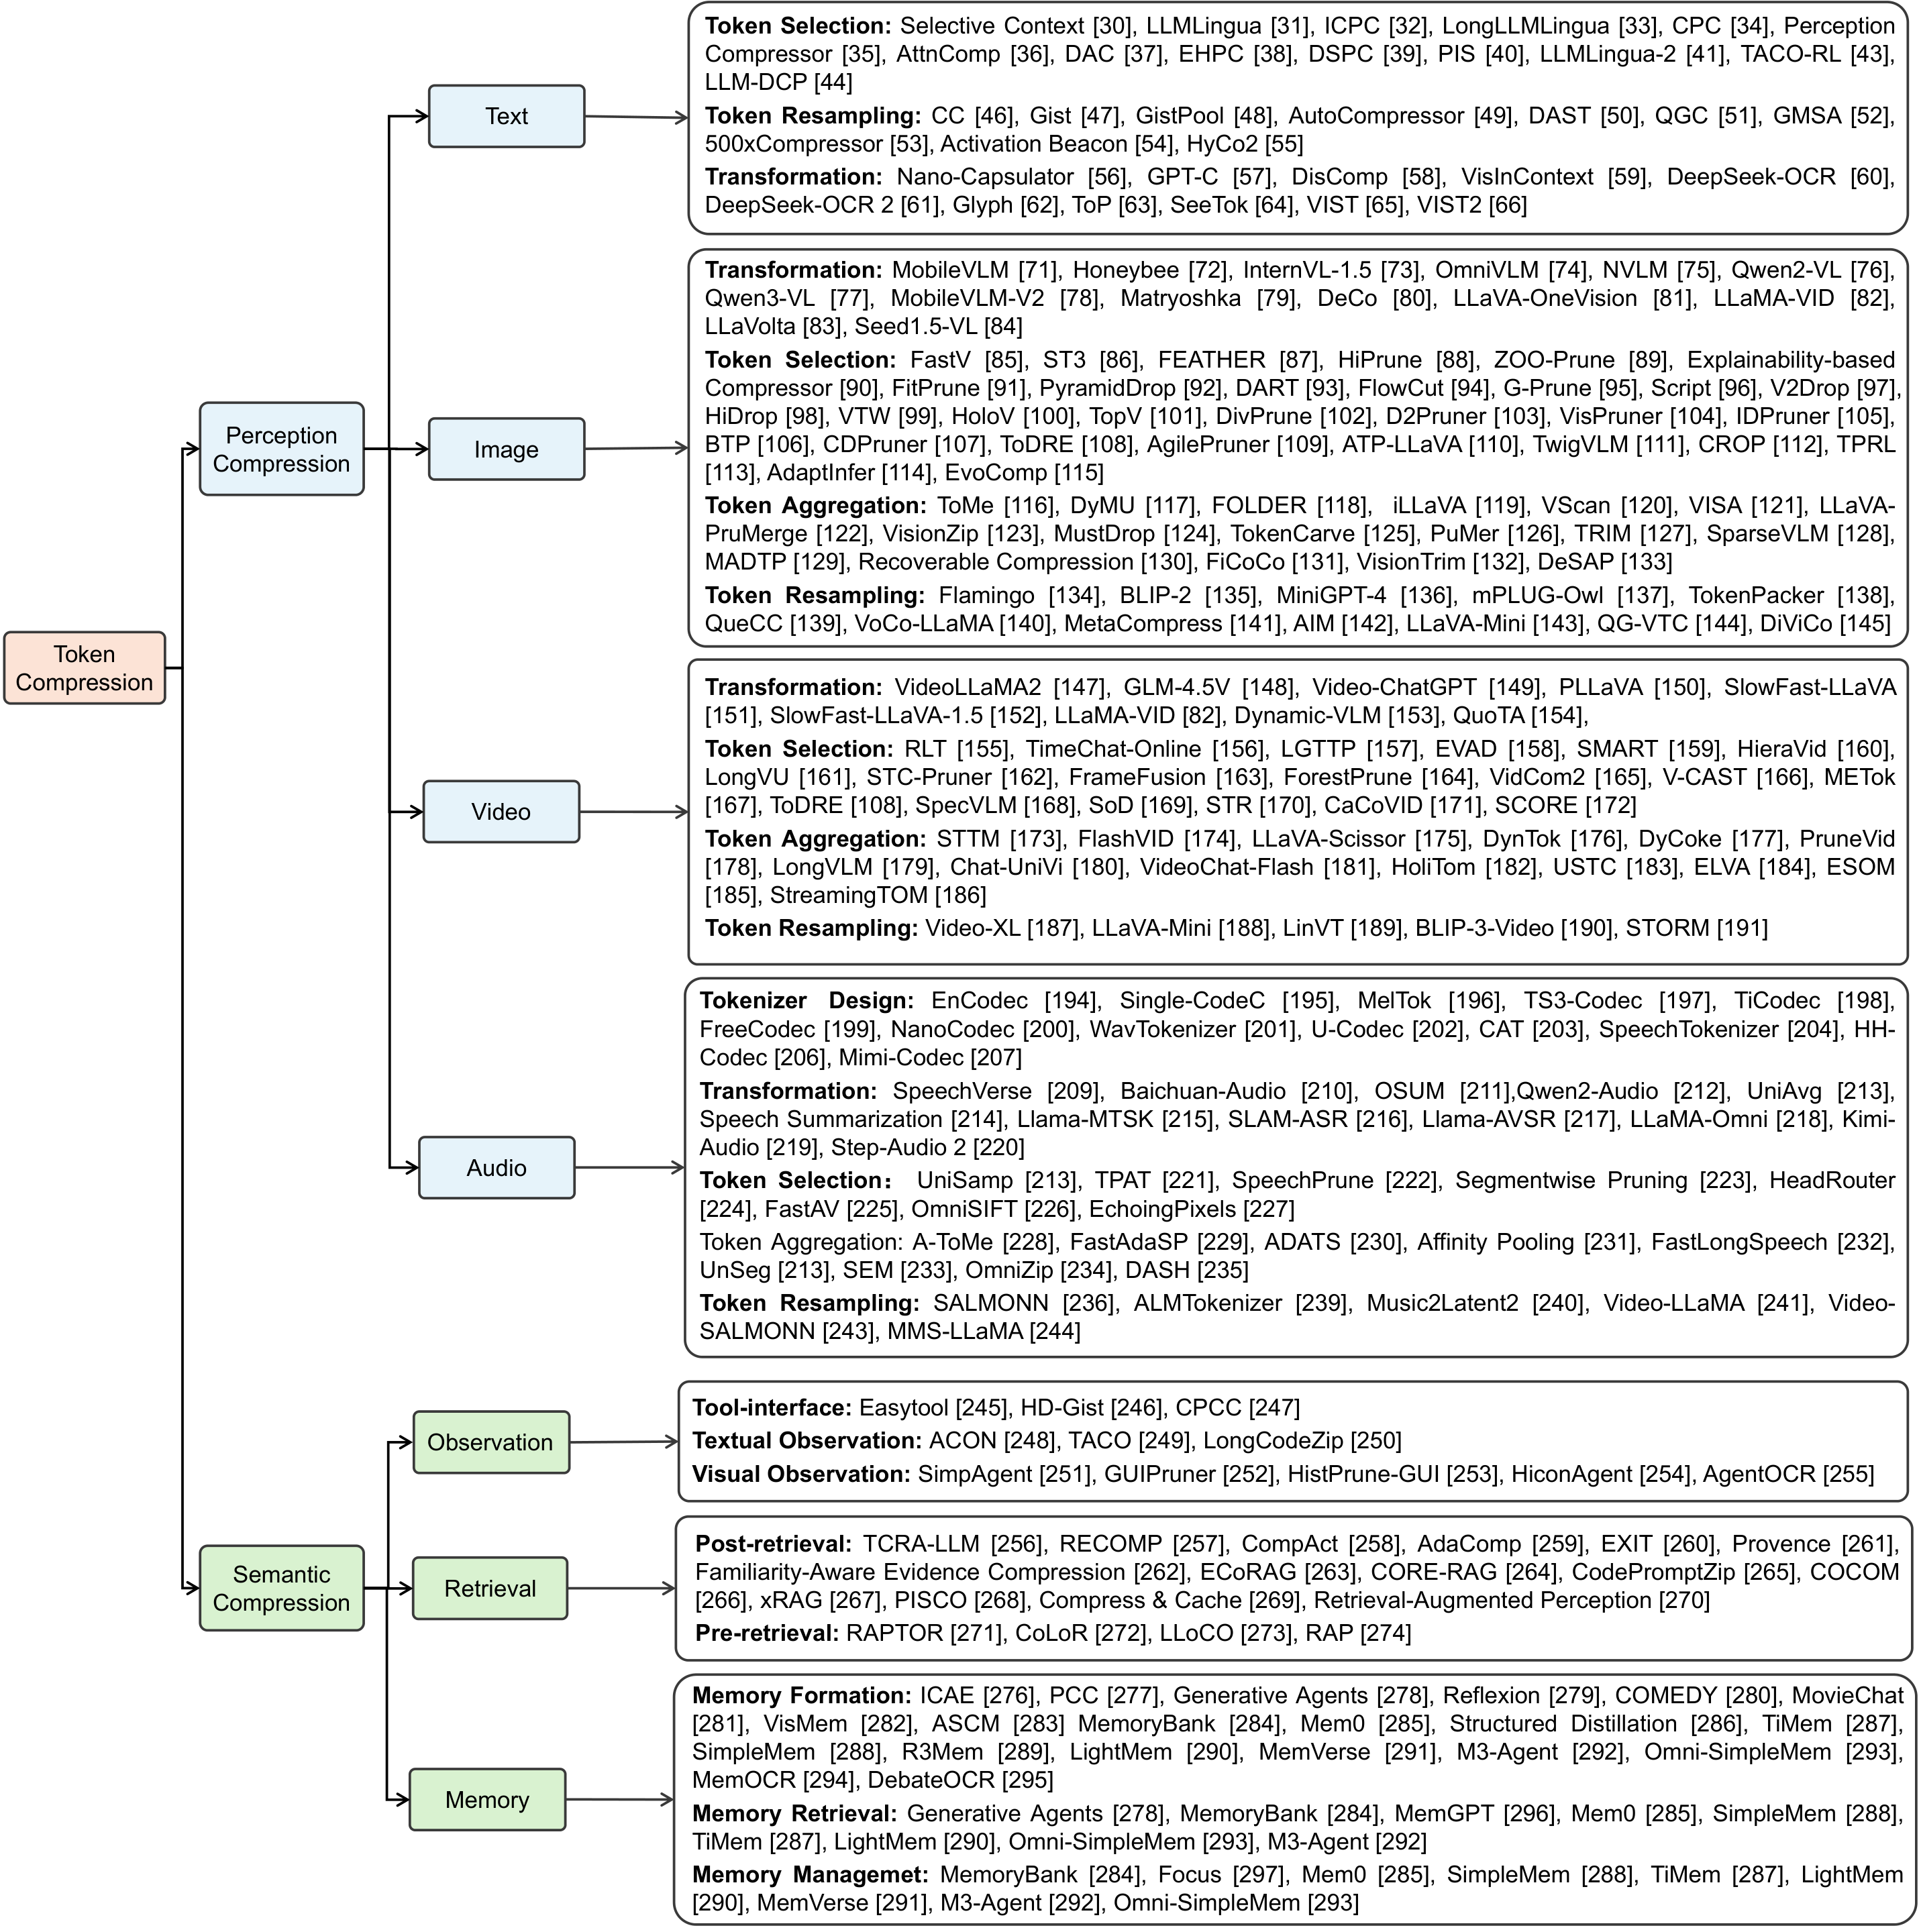
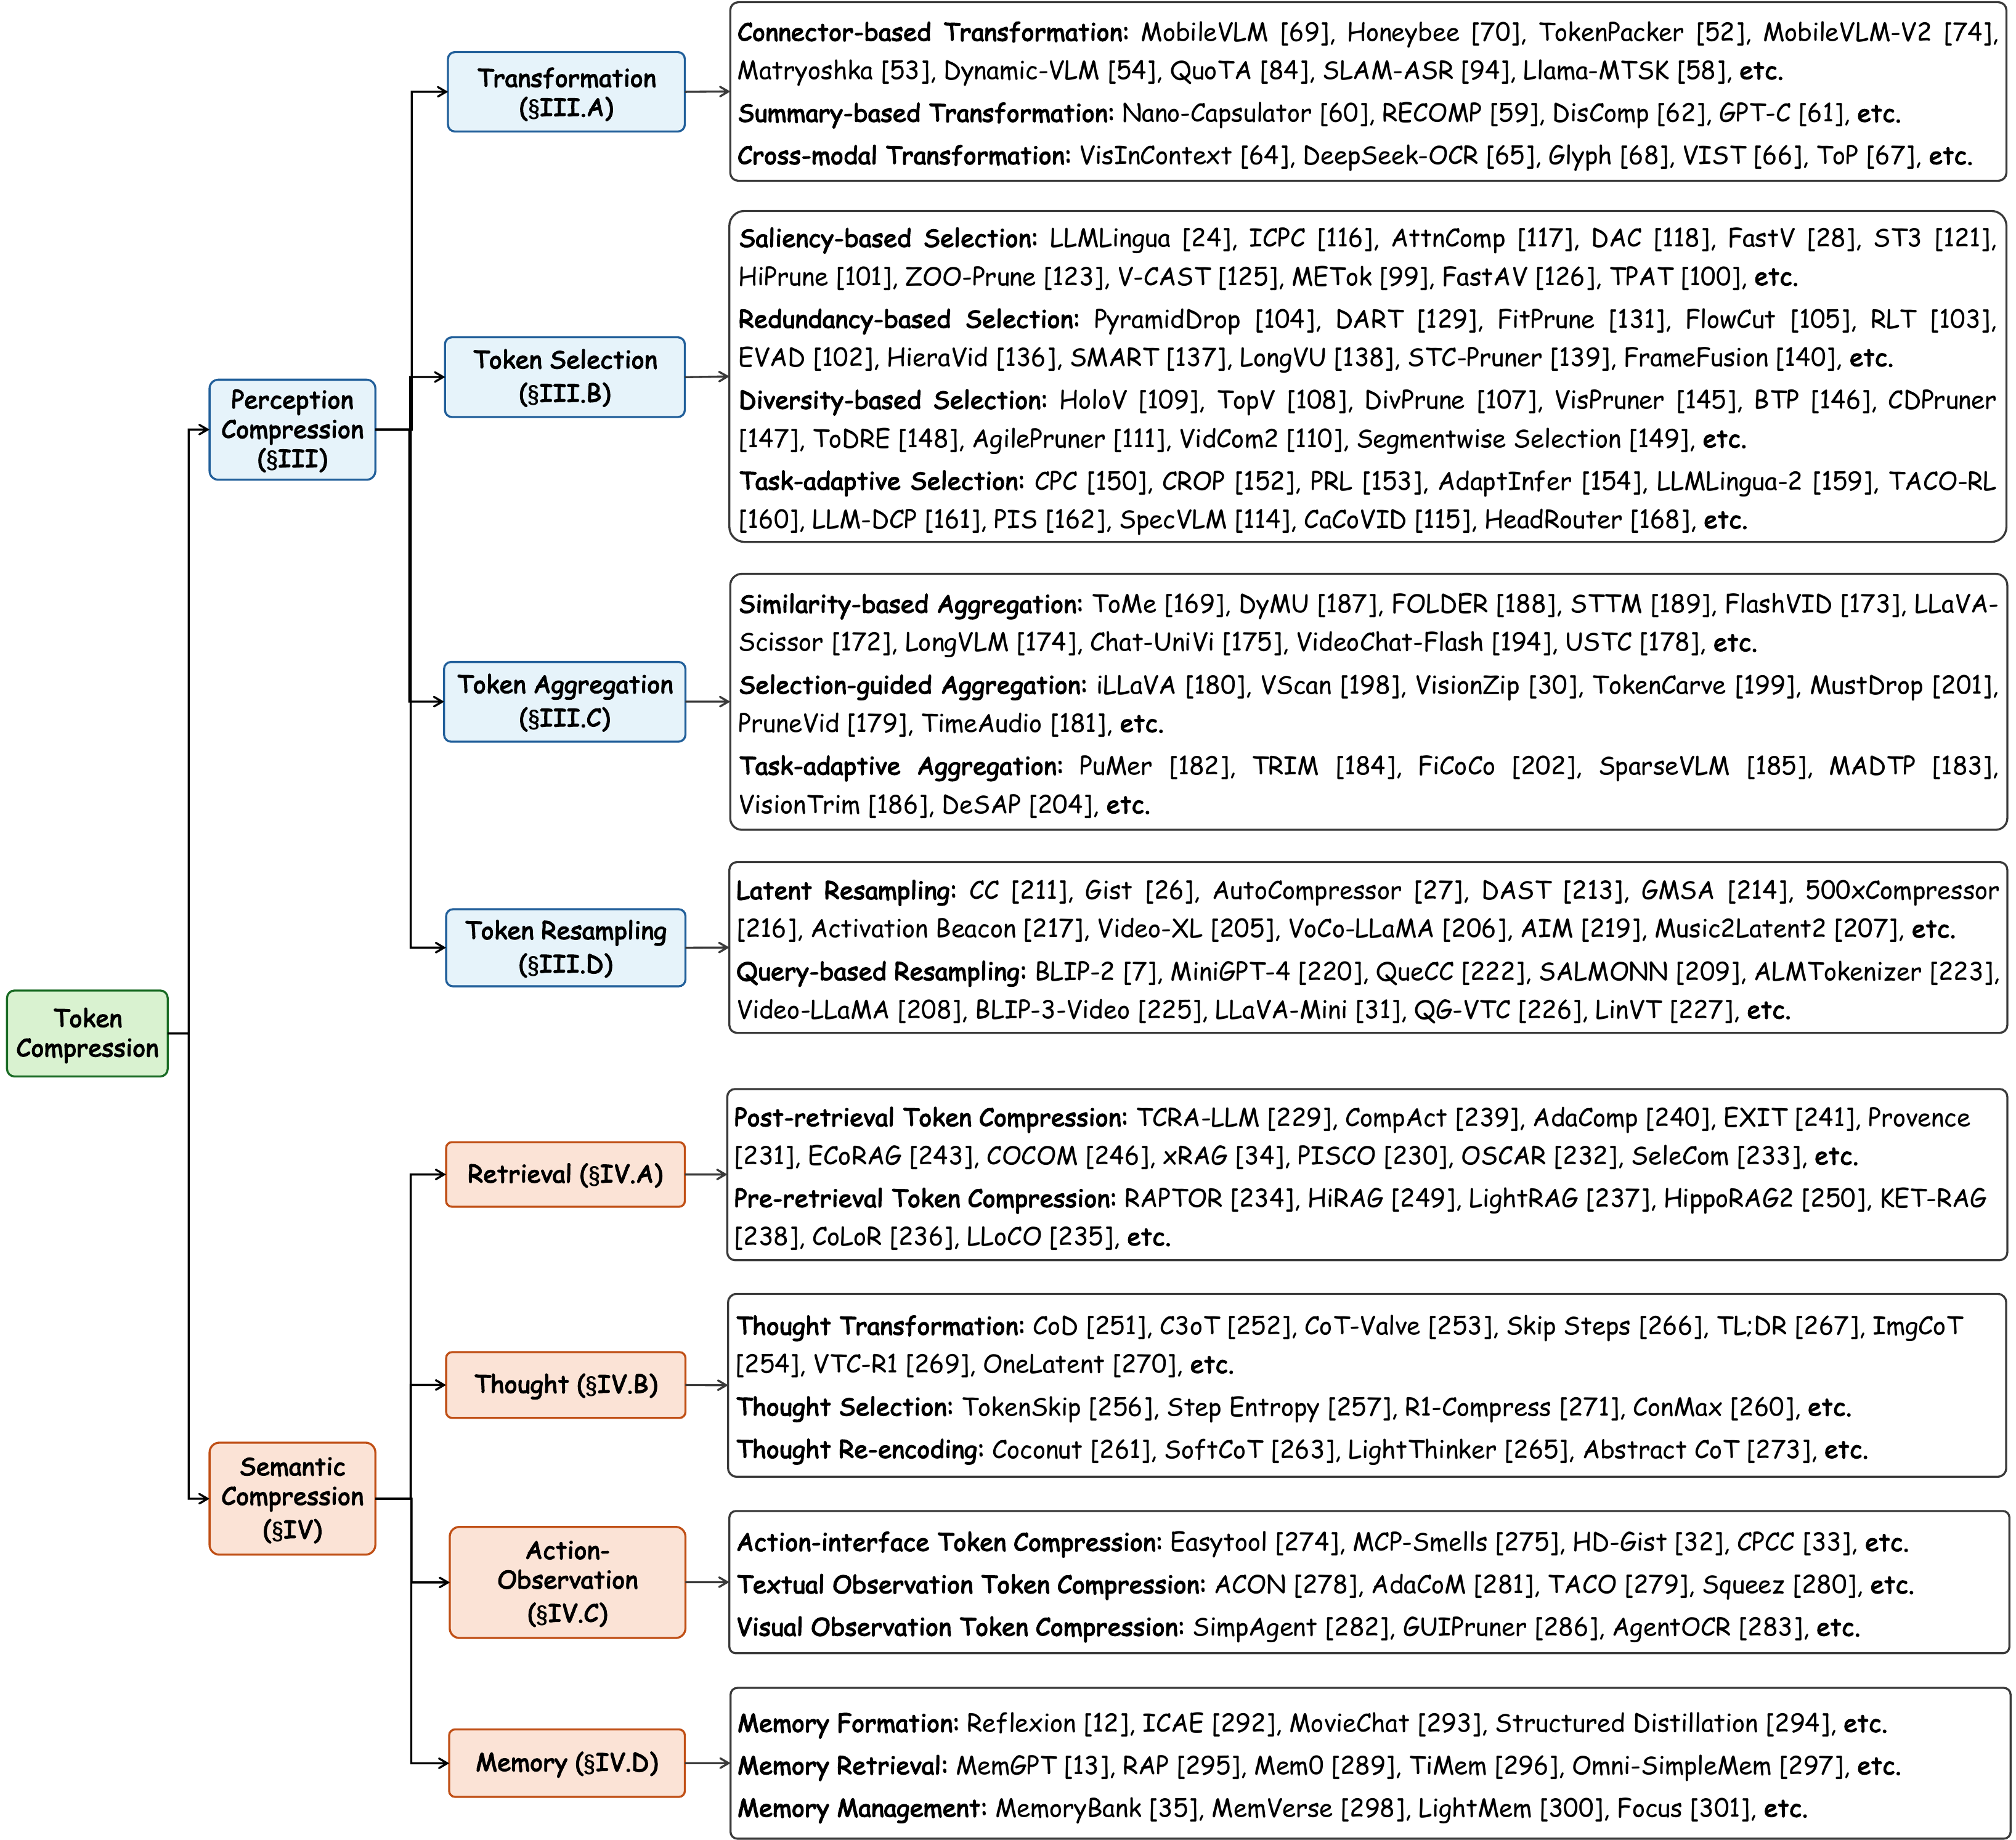
Update survey tables and figures from revised manuscript

Changed region(s): [[0.0934, 0.0, 1.0, 1.0], [0.0, 0.5312, 0.0934, 0.5938], [0.0, 0.3125, 0.0934, 0.375]]

diff --git a/README.md b/README.md
@@ -1,18 +1,18 @@
 # Awesome Token Compression in the Era of AI Agents: From Perception to Semantics
 
 [![Awesome](https://awesome.re/badge.svg)](https://awesome.re)
-![Papers](https://img.shields.io/badge/Papers-249-blue?style=flat-square)
+![Papers](https://img.shields.io/badge/Papers-286-blue?style=flat-square)
 ![PRs Welcome](https://img.shields.io/badge/PRs-welcome-brightgreen?style=flat-square)
 
 > A curated, taxonomy-organized paper list on **token compression** —
 > from raw perceptual inputs (text · image · video · audio)
-> to accumulated workflow contexts (observations · retrieval · memory).
+> to accumulated workflow contexts (retrieval · thought · action-observation · memory).
 >
 > Accompanying the survey paper:
-> **"A Survey of Token Compression in the Era of AI Agents: From Perception to Semantics"**
-> *Fengxi Zhang · Zhengxue Cheng · Li Song*
+> **"Token Compression in the AI Agent Lifecycle: A Comprehensive Survey from Perceptual Inputs to Semantic Contexts"**
+> *Fengxi Zhang · Zhengxue Cheng · Guo Lu · Li Song · Zhu Li · Zhiyong Chen · Meixia Tao · Wenjun Zhang*
 
-> **📢 Contributions Welcome** — submit a [pull request](https://github.com/xcjinggai/Awesome_Token_Compression_Papers/pulls)
+> **📢 Contributions Welcome** — submit a [pull request](https://github.com/XCJinggai/Awesome_Token_Compression_in_AI_Agents_Era/pulls)
 > to add papers, fix venue/GitHub info, or suggest improvements.
 
 ⭐ If you find this repo useful, please give us a star!
@@ -27,8 +27,9 @@
   - [🎬 Video](#-video-token-compression)
   - [🔊 Audio](#-audio-token-compression)
 - [Semantic Compression](#-semantic-compression)
-  - [👀 Observation](#-observation-token-compression)
+  - [🛠️ Action-Observation](#-action-observation-token-compression)
   - [🔍 Retrieval](#-retrieval-token-compression)
+  - [💭 Thought](#-thought-token-compression)
   - [🧩 Memory](#-memory-token-compression)
 - [Citation](#-citation)
 - [Star History](#-star-history)
@@ -42,7 +43,7 @@ Early task-specific Transformers processed task inputs as tokens — subwords in
 With the rise of LLMs, tokens were no longer limited to task inputs but became the basic units for organizing context and supporting reasoning.
 Multimodal LLMs (MLLMs) further extended the tokenized interface to perceptual signals,
 converting images, videos, and audio into tokens aligned with language representations.
-In AI agents, tokens now also represent **observations, retrieved evidence, and memory records**
+In AI agents, tokens now also represent **retrieved evidence, reasoning traces, action-observation histories, and memory records**
 accumulated across multi-step execution.
 
 **Token explosion has therefore become a context management challenge**, not merely a sequence-length problem.
@@ -52,6 +53,8 @@ Concretely, the problems manifest along three dimensions:
 - 🔺 **Inference cost** — longer active contexts mean higher FLOPs, memory bandwidth, and KV-cache pressure at every step.
 - 🔺 **Context window saturation** — as agents accumulate observations, retrieved passages, and memory records, the context window fills faster than task progress advances.
 - 🔺 **Attention noise** — irrelevant or redundant tokens compete for attention with task-critical signals, degrading model performance even when the window is not full (the *lost-in-the-middle* effect).
+
+![Token Explosion](figs/token_explosion.png)
 
 **Token compression** addresses all three: it preserves task-relevant information with fewer active tokens,
 reducing cost at the source rather than by changing model parameters or attention patterns.
@@ -68,7 +71,7 @@ dividing it into two top-level categories:
 | Category | Operates on | Source of Redundancy | Objective |
 |---|---|---|---|
 | 👁️ **Perception Compression** | Input-side perceptual tokens P (text, image, video, audio) | Intrinsic redundancy of raw inputs | Reduce perceptual token cost while preserving input information |
-| 🧠 **Semantic Compression** | Workflow context tokens C (observations, retrieval evidence, memory) | Redundancy induced by the workflow itself | Preserve decision-relevant information across multi-step execution |
+| 🧠 **Semantic Compression** | Workflow context tokens C (retrieval, thought, action-observation, memory) | Redundancy induced by the workflow itself | Preserve decision-relevant information across multi-step execution |
 
 ## 🏷️ Tag Legend
 
@@ -80,8 +83,10 @@ dividing it into two top-level categories:
 | ![Image](https://img.shields.io/badge/Image-059669?style=flat-square) | 🖼️ Image Token Compression |
 | ![Video](https://img.shields.io/badge/Video-dc2626?style=flat-square) | 🎬 Video Token Compression |
 | ![Audio](https://img.shields.io/badge/Audio-d97706?style=flat-square) | 🔊 Audio Token Compression |
-| ![Observation](https://img.shields.io/badge/Observation-ea580c?style=flat-square) | 👀 Observation Token Compression |
+| ![Observation](https://img.shields.io/badge/Observation-ea580c?style=flat-square) | 👀 Observation-side Token Compression |
 | ![Retrieval](https://img.shields.io/badge/Retrieval-0891b2?style=flat-square) | 🔍 Retrieval Token Compression |
+| ![Thought](https://img.shields.io/badge/Thought-c2410c?style=flat-square) | 💭 Thought Token Compression |
+| ![Action-Observation](https://img.shields.io/badge/Action--Observation-16a34a?style=flat-square) | 🛠️ Action-Observation Token Compression |
 | ![Memory](https://img.shields.io/badge/Memory-9333ea?style=flat-square) | 🧩 Memory Token Compression |
 | ![Cross-Modal](https://img.shields.io/badge/Cross--Modal-db2777?style=flat-square) | 🔀 Cross-modal compression (e.g., rendering text as images) |
 | ![Joint-Modal](https://img.shields.io/badge/Joint--Modal-0ea5e9?style=flat-square) | 🔗 Joint-modal compression (language-guided or multi-modal joint compression) |
@@ -121,6 +126,7 @@ Existing methods fall into four paradigms:
 | [![arXiv](https://img.shields.io/badge/arXiv-2025/10-B31B1B?style=flat-square)](https://arxiv.org/abs/2510.18234)<br>[DeepSeek-OCR: Contexts Optical Compression](https://arxiv.org/abs/2510.18234)<br><sub>Wei, Sun, Li</sub> | 2025/10 | [arXiv](https://arxiv.org/abs/2510.18234) | ![Text](https://img.shields.io/badge/Text-6366f1?style=flat-square) | ![Transformation](https://img.shields.io/badge/Transformation-eab308?style=flat-square) ![Cross-Modal](https://img.shields.io/badge/Cross--Modal-db2777?style=flat-square) |
 | [![arXiv](https://img.shields.io/badge/arXiv-2025/10-B31B1B?style=flat-square)](https://arxiv.org/abs/2510.18279)<br>[Text or Pixels? It Takes Half: On the Token Efficiency of Visual Text Inputs in Multimodal LLMs](https://arxiv.org/abs/2510.18279)<br><sub>Li, Lan, Zhou</sub> | 2025/10 | [arXiv](https://arxiv.org/abs/2510.18279) | ![Text](https://img.shields.io/badge/Text-6366f1?style=flat-square) | ![Transformation](https://img.shields.io/badge/Transformation-eab308?style=flat-square) |
 | [![arXiv](https://img.shields.io/badge/arXiv-2025/10-B31B1B?style=flat-square)](https://arxiv.org/abs/2510.18840)<br>[See the Text: From Tokenization to Visual Reading](https://arxiv.org/abs/2510.18840)<br><sub>Xing, Yan, Wang et al.</sub> | 2025/10 | [arXiv](https://arxiv.org/abs/2510.18840) | ![Text](https://img.shields.io/badge/Text-6366f1?style=flat-square) | ![Transformation](https://img.shields.io/badge/Transformation-eab308?style=flat-square) ![Cross-Modal](https://img.shields.io/badge/Cross--Modal-db2777?style=flat-square) |
+| [![ACL](https://img.shields.io/badge/ACL-2025-4A90D9?style=flat-square)]()<br>[SCOPE: A Generative Approach for LLM Prompt Compression](https://arxiv.org/abs/2508.15813)<br><sub>Zhang, Wang, Wang</sub> | 2025/08 | [arXiv](https://arxiv.org/abs/2508.15813) | ![Text](https://img.shields.io/badge/Text-6366f1?style=flat-square) | ![Transformation](https://img.shields.io/badge/Transformation-eab308?style=flat-square) |
 | [![ICASSP](https://img.shields.io/badge/ICASSP-2025/04-4A90D9?style=flat-square)]()<br>[GPT-C: Generative PrompT Compression](https://ieeexplore.ieee.org/document/10888801/)<br><sub>Liu, Wang, Jing et al.</sub> | 2025/04 | [Paper](https://ieeexplore.ieee.org/document/10888801/) | ![Text](https://img.shields.io/badge/Text-6366f1?style=flat-square) | ![Transformation](https://img.shields.io/badge/Transformation-eab308?style=flat-square) |
 | [![Findings of NAACL](https://img.shields.io/badge/Findings_of_NAACL-2025/04-4A90D9?style=flat-square)]()<br>[DisComp: A Two-Stage Prompt Optimization Framework Combining Task-Agnostic and Task-Aware Compression](https://aclanthology.org/2025.findings-naacl.58/)<br><sub>Liu, Fan, Zhang et al.</sub> | 2025/04 | [Paper](https://aclanthology.org/2025.findings-naacl.58/) | ![Text](https://img.shields.io/badge/Text-6366f1?style=flat-square) | ![Transformation](https://img.shields.io/badge/Transformation-eab308?style=flat-square) |
 | [![arXiv](https://img.shields.io/badge/arXiv-2025/02-B31B1B?style=flat-square)](https://arxiv.org/abs/2502.00791)<br>[Vision-centric Token Compression in Large Language Model](https://arxiv.org/abs/2502.00791)<br><sub>Xing, Wang, Yan et al.</sub> | 2025/02 | [arXiv](https://arxiv.org/abs/2502.00791) | ![Text](https://img.shields.io/badge/Text-6366f1?style=flat-square) | ![Transformation](https://img.shields.io/badge/Transformation-eab308?style=flat-square) ![Cross-Modal](https://img.shields.io/badge/Cross--Modal-db2777?style=flat-square) |
@@ -418,17 +424,18 @@ Existing methods fall into four paradigms:
 
 ## 🧠 Semantic Compression
 
-> 3 workflow context types
+> 4 workflow context types
 
 Semantic compression addresses token growth driven by the agent workflow itself.
-Multi-round interaction introduces observations and action records.
-Retrieval modules add external evidence. Memory systems preserve historical traces.
+Retrieval modules add external evidence, reasoning introduces thought traces,
+multi-round interaction accumulates action-observation records, and memory systems preserve historical traces.
 If injected without compression, these contexts increase inference cost and may introduce attention noise.
 
 **Method tags used in this section:**
 
 | Badge | Description |
 |---|---|
+| ![Action-Interface](https://img.shields.io/badge/Action--Interface-0f766e?style=flat-square) | compresses tool schemas and API documentation while preserving executable constraints. |
 | ![Textual](https://img.shields.io/badge/Textual-64748b?style=flat-square) | compresses textual observations — execution logs, terminal outputs, action-observation histories. |
 | ![Visual](https://img.shields.io/badge/Visual-10b981?style=flat-square) | compresses visual observations — GUI screenshots, interface states, environment images. |
 | ![Post-retrieval](https://img.shields.io/badge/Post--retrieval-f43f5e?style=flat-square) | reduces the token cost of retrieved passages/evidence before feeding them to the LLM. |
@@ -437,9 +444,19 @@ If injected without compression, these contexts increase inference cost and may 
 | ![Retrieval](https://img.shields.io/badge/Retrieval-06b6d4?style=flat-square) | selects which stored memories to inject into the active context. |
 | ![Management](https://img.shields.io/badge/Management-6366f1?style=flat-square) | updates, consolidates, and prunes the memory store to bound long-term memory growth. |
 
-### 👀 Observation Token Compression
+### 🛠️ Action-Observation Token Compression
 
-> Observations capture environment states, tool feedback, and interaction outcomes during agent execution. If appended without compression, they quickly expand the active context with noisy or repetitive content.
+> Action-observation context includes tool interfaces, environment states, tool feedback, and interaction outcomes. If appended without compression, it quickly expands the active context with verbose schemas and repetitive runtime content.
+
+#### ![](https://img.shields.io/badge/Action--Interface-0f766e?style=flat-square) Action-Interface Token Compression
+
+| **Paper**&nbsp;&nbsp;&nbsp;&nbsp;&nbsp;&nbsp;&nbsp;&nbsp;&nbsp;&nbsp;&nbsp;&nbsp;&nbsp;&nbsp;&nbsp;&nbsp;&nbsp;&nbsp;&nbsp;&nbsp;&nbsp;&nbsp;&nbsp;&nbsp;&nbsp;&nbsp;&nbsp;&nbsp;&nbsp;&nbsp; | **Date** | **Links**&nbsp;&nbsp;&nbsp;&nbsp;&nbsp;&nbsp;&nbsp;&nbsp;&nbsp;&nbsp;&nbsp;&nbsp; | **Context** | **Method** |
+| --- | :---: | --- | :---: | :---: |
+| [![arXiv](https://img.shields.io/badge/arXiv-2026/02-B31B1B?style=flat-square)](https://arxiv.org/abs/2602.14878)<br>[Model Context Protocol (MCP) Tool Descriptions Are Smelly! Towards Improving AI Agent Efficiency with Augmented MCP Tool Descriptions](https://arxiv.org/abs/2602.14878)<br><sub>Hasan, Li, Rajbahadur et al.</sub> | 2026/02 | [arXiv](https://arxiv.org/abs/2602.14878) | ![Action-Observation](https://img.shields.io/badge/Action--Observation-16a34a?style=flat-square) | ![Action-Interface](https://img.shields.io/badge/Action--Interface-0f766e?style=flat-square) |
+| [![Zenodo](https://img.shields.io/badge/Zenodo-2026-1682D4?style=flat-square)](https://zenodo.org/doi/10.5281/zenodo.[phone redacted])<br>[TSCG Empirical Findings: 20,000+ API Call Tool-Schema Compression Benchmark](https://zenodo.org/doi/10.5281/zenodo.[phone redacted])<br><sub>Sakizli</sub> | 2026 | [Dataset](https://zenodo.org/doi/10.5281/zenodo.[phone redacted]) | ![Action-Observation](https://img.shields.io/badge/Action--Observation-16a34a?style=flat-square) | ![Action-Interface](https://img.shields.io/badge/Action--Interface-0f766e?style=flat-square) |
+| [![NAACL](https://img.shields.io/badge/NAACL-2025-4A90D9?style=flat-square)]()<br>[EASYTOOL: Enhancing LLM-based Agents with Concise Tool Instruction](https://arxiv.org/abs/2401.06201)<br><sub>Yuan, Song, Chen et al.</sub> | 2025 | [arXiv](https://arxiv.org/abs/2401.06201) | ![Action-Observation](https://img.shields.io/badge/Action--Observation-16a34a?style=flat-square) | ![Action-Interface](https://img.shields.io/badge/Action--Interface-0f766e?style=flat-square) |
+| [![ACL](https://img.shields.io/badge/ACL-2024-4A90D9?style=flat-square)]()<br>[Concise and Precise Context Compression for Tool-Using Language Models](https://aclanthology.org/2024.findings-acl.974/)<br><sub>Xu, Feng, Mu et al.</sub> | 2024 | [Paper](https://aclanthology.org/2024.findings-acl.974/) | ![Action-Observation](https://img.shields.io/badge/Action--Observation-16a34a?style=flat-square) | ![Action-Interface](https://img.shields.io/badge/Action--Interface-0f766e?style=flat-square) |
+| [![EACL](https://img.shields.io/badge/EACL-2024/03-4A90D9?style=flat-square)]()<br>[Hierarchical and Dynamic Prompt Compression for Efficient Zero-shot API Usage](https://aclanthology.org/2024.findings-eacl.143/)<br><sub>Jiang, Vecchio, Bansal et al.</sub> | 2024/03 | [Paper](https://aclanthology.org/2024.findings-eacl.143/) | ![Action-Observation](https://img.shields.io/badge/Action--Observation-16a34a?style=flat-square) | ![Action-Interface](https://img.shields.io/badge/Action--Interface-0f766e?style=flat-square) |
 
 <img src="figs/observation_compression.png" width="80%">
 
@@ -447,6 +464,8 @@ If injected without compression, these contexts increase inference cost and may 
 
 | **Paper**&nbsp;&nbsp;&nbsp;&nbsp;&nbsp;&nbsp;&nbsp;&nbsp;&nbsp;&nbsp;&nbsp;&nbsp;&nbsp;&nbsp;&nbsp;&nbsp;&nbsp;&nbsp;&nbsp;&nbsp;&nbsp;&nbsp;&nbsp;&nbsp;&nbsp;&nbsp;&nbsp;&nbsp;&nbsp;&nbsp; | **Date** | **Links**&nbsp;&nbsp;&nbsp;&nbsp;&nbsp;&nbsp;&nbsp;&nbsp;&nbsp;&nbsp;&nbsp;&nbsp; | **Modality** | **Method** |
 | --- | :---: | --- | :---: | :---: |
+| [![arXiv](https://img.shields.io/badge/arXiv-2026/05-B31B1B?style=flat-square)](https://arxiv.org/abs/2605.30785)<br>[Learning Agent-Compatible Context Management for Long-Horizon Tasks](https://arxiv.org/abs/2605.30785)<br><sub>Yi, Lei, Yao et al.</sub> | 2026/05 | [arXiv](https://arxiv.org/abs/2605.30785) | ![Action-Observation](https://img.shields.io/badge/Action--Observation-16a34a?style=flat-square) | ![Textual](https://img.shields.io/badge/Textual-64748b?style=flat-square) |
+| [![arXiv](https://img.shields.io/badge/arXiv-2026/04-B31B1B?style=flat-square)](https://arxiv.org/abs/2604.04979)<br>[Squeez: Task-Conditioned Tool-Output Pruning for Coding Agents](https://arxiv.org/abs/2604.04979)<br><sub>Kovács</sub> | 2026/04 | [arXiv](https://arxiv.org/abs/2604.04979) | ![Action-Observation](https://img.shields.io/badge/Action--Observation-16a34a?style=flat-square) | ![Textual](https://img.shields.io/badge/Textual-64748b?style=flat-square) |
 | [![arXiv](https://img.shields.io/badge/arXiv-2026/04-B31B1B?style=flat-square)](https://arxiv.org/abs/2604.19572)<br>[A Self-Evolving Framework for Efficient Terminal Agents via Observational Context Compression](https://arxiv.org/abs/2604.19572)<br><sub>Ren, Wu, Li et al.</sub> | 2026/04 | [arXiv](https://arxiv.org/abs/2604.19572) | ![Observation](https://img.shields.io/badge/Observation-ea580c?style=flat-square) | ![Textual](https://img.shields.io/badge/Textual-64748b?style=flat-square) |
 | [![arXiv](https://img.shields.io/badge/arXiv-2025/10-B31B1B?style=flat-square)](https://arxiv.org/abs/2510.00446) [![GitHub](https://img.shields.io/badge/GitHub-181717?style=flat-square&logo=github&logoColor=white)](https://github.com/YerbaPage/LongCodeZip)<br>[LongCodeZip: Compress Long Context for Code Language Models](https://arxiv.org/abs/2510.00446)<br><sub>Shi, Qian, Zhang et al.</sub> | 2025/10 | [arXiv](https://arxiv.org/abs/2510.00446) · [GitHub](https://github.com/YerbaPage/LongCodeZip) | ![Observation](https://img.shields.io/badge/Observation-ea580c?style=flat-square) | ![Textual](https://img.shields.io/badge/Textual-64748b?style=flat-square) |
 | [![arXiv](https://img.shields.io/badge/arXiv-2025/10-B31B1B?style=flat-square)](https://arxiv.org/abs/2510.00615) [![GitHub](https://img.shields.io/badge/GitHub-181717?style=flat-square&logo=github&logoColor=white)](https://github.com/microsoft/acon)<br>[ACON: Optimizing Context Compression for Long-horizon LLM Agents](https://arxiv.org/abs/2510.00615)<br><sub>Kang, Chen, Han et al.</sub> | 2025/10 | [arXiv](https://arxiv.org/abs/2510.00615) · [GitHub](https://github.com/microsoft/acon) | ![Observation](https://img.shields.io/badge/Observation-ea580c?style=flat-square) | ![Textual](https://img.shields.io/badge/Textual-64748b?style=flat-square) |
@@ -473,6 +492,8 @@ If injected without compression, these contexts increase inference cost and may 
 
 | **Paper**&nbsp;&nbsp;&nbsp;&nbsp;&nbsp;&nbsp;&nbsp;&nbsp;&nbsp;&nbsp;&nbsp;&nbsp;&nbsp;&nbsp;&nbsp;&nbsp;&nbsp;&nbsp;&nbsp;&nbsp;&nbsp;&nbsp;&nbsp;&nbsp;&nbsp;&nbsp;&nbsp;&nbsp;&nbsp;&nbsp; | **Date** | **Links**&nbsp;&nbsp;&nbsp;&nbsp;&nbsp;&nbsp;&nbsp;&nbsp;&nbsp;&nbsp;&nbsp;&nbsp; | **Modality** | **Method** |
 | --- | :---: | --- | :---: | :---: |
+| [![WWW](https://img.shields.io/badge/WWW-2026-4A90D9?style=flat-square)]()<br>[Rethinking Soft Compression in Retrieval-Augmented Generation: A Query-Conditioned Selector Perspective](https://arxiv.org/abs/2602.15856)<br><sub>Liu, Jia, Gao et al.</sub> | 2026/02 | [arXiv](https://arxiv.org/abs/2602.15856) | ![Retrieval](https://img.shields.io/badge/Retrieval-0891b2?style=flat-square) | ![Post-retrieval](https://img.shields.io/badge/Post--retrieval-f43f5e?style=flat-square) |
+| [![ICLR](https://img.shields.io/badge/ICLR-2026-4A90D9?style=flat-square)]()<br>[OSCAR: Online Soft Compression And Reranking](https://arxiv.org/abs/2504.07109)<br><sub>Louis, Formal, Déjean et al.</sub> | 2026 | [arXiv](https://arxiv.org/abs/2504.07109) | ![Retrieval](https://img.shields.io/badge/Retrieval-0891b2?style=flat-square) | ![Post-retrieval](https://img.shields.io/badge/Post--retrieval-f43f5e?style=flat-square) |
 | [![arXiv](https://img.shields.io/badge/arXiv-2025/08-B31B1B?style=flat-square)](https://arxiv.org/abs/2508.19282)<br>[CORE-RAG: Lossless Compression for Retrieval-Augmented LLMs via Reinforcement Learning](https://arxiv.org/abs/2508.19282)<br><sub>Cui, Weng, Tang et al.</sub> | 2025/08 | [arXiv](https://arxiv.org/abs/2508.19282) | ![Retrieval](https://img.shields.io/badge/Retrieval-0891b2?style=flat-square) | ![Post-retrieval](https://img.shields.io/badge/Post--retrieval-f43f5e?style=flat-square) |
 | [![Findings of ACL](https://img.shields.io/badge/Findings_of_ACL-2025/07-4A90D9?style=flat-square)]() [![GitHub](https://img.shields.io/badge/GitHub-181717?style=flat-square&logo=github&logoColor=white)](https://github.com/ThisIsHwang/EXIT)<br>[EXIT: Context-Aware Extractive Compression for Enhancing Retrieval-Augmented Generation](https://aclanthology.org/2025.findings-acl.253/)<br><sub>Hwang, Cho, Jeong et al.</sub> | 2025/07 | [Paper](https://aclanthology.org/2025.findings-acl.253/) · [GitHub](https://github.com/ThisIsHwang/EXIT) | ![Retrieval](https://img.shields.io/badge/Retrieval-0891b2?style=flat-square) | ![Post-retrieval](https://img.shields.io/badge/Post--retrieval-f43f5e?style=flat-square) |
 | [![Findings of ACL](https://img.shields.io/badge/Findings_of_ACL-2025/07-4A90D9?style=flat-square)]()<br>[PISCO: Pretty Simple Compression for Retrieval-Augmented Generation](https://aclanthology.org/2025.findings-acl.800/)<br><sub>Louis, Déjean, Clinchant</sub> | 2025/07 | [Paper](https://aclanthology.org/2025.findings-acl.800/) | ![Retrieval](https://img.shields.io/badge/Retrieval-0891b2?style=flat-square) | ![Post-retrieval](https://img.shields.io/badge/Post--retrieval-f43f5e?style=flat-square) |
@@ -493,10 +514,58 @@ If injected without compression, these contexts increase inference cost and may 
 
 | **Paper**&nbsp;&nbsp;&nbsp;&nbsp;&nbsp;&nbsp;&nbsp;&nbsp;&nbsp;&nbsp;&nbsp;&nbsp;&nbsp;&nbsp;&nbsp;&nbsp;&nbsp;&nbsp;&nbsp;&nbsp;&nbsp;&nbsp;&nbsp;&nbsp;&nbsp;&nbsp;&nbsp;&nbsp;&nbsp;&nbsp; | **Date** | **Links**&nbsp;&nbsp;&nbsp;&nbsp;&nbsp;&nbsp;&nbsp;&nbsp;&nbsp;&nbsp;&nbsp;&nbsp; | **Modality** | **Method** |
 | --- | :---: | --- | :---: | :---: |
+| [![EMNLP](https://img.shields.io/badge/EMNLP-2025/11-4A90D9?style=flat-square)]()<br>[LightRAG: Simple and Fast Retrieval-Augmented Generation](https://aclanthology.org/2025.findings-emnlp.568/)<br><sub>Guo, Xia, Yu et al.</sub> | 2025/11 | [Paper](https://aclanthology.org/2025.findings-emnlp.568/) | ![Retrieval](https://img.shields.io/badge/Retrieval-0891b2?style=flat-square) | ![Pre-retrieval](https://img.shields.io/badge/Pre--retrieval-f97316?style=flat-square) |
+| [![ICML](https://img.shields.io/badge/ICML-2025/07-4A90D9?style=flat-square)]()<br>[From RAG to Memory: Non-Parametric Continual Learning for Large Language Models](https://proceedings.mlr.press/v267/gutierrez25a.html)<br><sub>Gutiérrez, Shu, Qi et al.</sub> | 2025/07 | [Paper](https://proceedings.mlr.press/v267/gutierrez25a.html) | ![Retrieval](https://img.shields.io/badge/Retrieval-0891b2?style=flat-square) | ![Pre-retrieval](https://img.shields.io/badge/Pre--retrieval-f97316?style=flat-square) |
+| [![arXiv](https://img.shields.io/badge/arXiv-2025/03-B31B1B?style=flat-square)](https://arxiv.org/abs/2503.10150)<br>[Retrieval-Augmented Generation with Hierarchical Knowledge](https://arxiv.org/abs/2503.10150)<br><sub>Huang, Huang, Yang et al.</sub> | 2025/03 | [arXiv](https://arxiv.org/abs/2503.10150) | ![Retrieval](https://img.shields.io/badge/Retrieval-0891b2?style=flat-square) | ![Pre-retrieval](https://img.shields.io/badge/Pre--retrieval-f97316?style=flat-square) |
+| [![KDD](https://img.shields.io/badge/KDD-2025-4A90D9?style=flat-square)]()<br>[KET-RAG: A Cost-Efficient Multi-Granular Indexing Framework for Graph-RAG](https://arxiv.org/abs/2502.09304)<br><sub>Huang, Zhang, Xiao</sub> | 2025/02 | [arXiv](https://arxiv.org/abs/2502.09304) | ![Retrieval](https://img.shields.io/badge/Retrieval-0891b2?style=flat-square) | ![Pre-retrieval](https://img.shields.io/badge/Pre--retrieval-f97316?style=flat-square) |
 | [![ACL](https://img.shields.io/badge/ACL-2025/07-4A90D9?style=flat-square)]() [![GitHub](https://img.shields.io/badge/GitHub-181717?style=flat-square&logo=github&logoColor=white)](https://github.com/going-doer/CoLoR)<br>[Efficient Long Context Language Model Retrieval with Compression](https://aclanthology.org/2025.acl-long.740/)<br><sub>Seo, Baek, Lee et al.</sub> | 2025/07 | [Paper](https://aclanthology.org/2025.acl-long.740/) · [GitHub](https://github.com/going-doer/CoLoR) | ![Retrieval](https://img.shields.io/badge/Retrieval-0891b2?style=flat-square) | ![Pre-retrieval](https://img.shields.io/badge/Pre--retrieval-f97316?style=flat-square) |
 | [![EMNLP](https://img.shields.io/badge/EMNLP-2024/11-4A90D9?style=flat-square)]()<br>[LLoCO: Learning Long Contexts Offline](https://aclanthology.org/2024.emnlp-main.975/)<br><sub>Tan, Li, Patil et al.</sub> | 2024/11 | [Paper](https://aclanthology.org/2024.emnlp-main.975/) | ![Retrieval](https://img.shields.io/badge/Retrieval-0891b2?style=flat-square) | ![Pre-retrieval](https://img.shields.io/badge/Pre--retrieval-f97316?style=flat-square) |
 | [![arXiv](https://img.shields.io/badge/arXiv-2024/02-B31B1B?style=flat-square)](https://arxiv.org/abs/2402.03610)<br>[RAP: Retrieval-Augmented Planning with Contextual Memory for Multimodal LLM Agents](https://arxiv.org/abs/2402.03610)<br><sub>Kagaya, Yuan, Lou et al.</sub> | 2024/02 | [arXiv](https://arxiv.org/abs/2402.03610) | ![Retrieval](https://img.shields.io/badge/Retrieval-0891b2?style=flat-square) | ![Pre-retrieval](https://img.shields.io/badge/Pre--retrieval-f97316?style=flat-square) |
 | [![arXiv](https://img.shields.io/badge/arXiv-2024/01-B31B1B?style=flat-square)](https://arxiv.org/abs/2401.18059)<br>[RAPTOR: Recursive Abstractive Processing for Tree-Organized Retrieval](https://arxiv.org/abs/2401.18059)<br><sub>Sarthi, Abdullah, Tuli et al.</sub> | 2024/01 | [arXiv](https://arxiv.org/abs/2401.18059) | ![Retrieval](https://img.shields.io/badge/Retrieval-0891b2?style=flat-square) | ![Pre-retrieval](https://img.shields.io/badge/Pre--retrieval-f97316?style=flat-square) |
+
+---
+
+### 💭 Thought Token Compression
+
+> Thought token compression reduces the cost of reasoning traces while preserving the information required for a correct final answer. The updated survey groups methods into transformation, selection, and re-encoding.
+
+#### ![](https://img.shields.io/badge/Transformation-eab308?style=flat-square) Thought Transformation
+
+| **Paper**&nbsp;&nbsp;&nbsp;&nbsp;&nbsp;&nbsp;&nbsp;&nbsp;&nbsp;&nbsp;&nbsp;&nbsp;&nbsp;&nbsp;&nbsp;&nbsp;&nbsp;&nbsp;&nbsp;&nbsp;&nbsp;&nbsp;&nbsp;&nbsp;&nbsp;&nbsp;&nbsp;&nbsp;&nbsp;&nbsp; | **Date** | **Links**&nbsp;&nbsp;&nbsp;&nbsp;&nbsp;&nbsp;&nbsp;&nbsp;&nbsp;&nbsp;&nbsp;&nbsp; | **Context** | **Method** |
+| --- | :---: | --- | :---: | :---: |
+| [![ICML](https://img.shields.io/badge/ICML-2026-4A90D9?style=flat-square)]()<br>[ImgCoT: Compressing Long Chain of Thought into Compact Visual Tokens for Efficient Reasoning of Large Language Model](https://arxiv.org/abs/2601.22730)<br><sub>Chen, Zhou, Liang et al.</sub> | 2026/01 | [arXiv](https://arxiv.org/abs/2601.22730) | ![Thought](https://img.shields.io/badge/Thought-c2410c?style=flat-square) | ![Transformation](https://img.shields.io/badge/Transformation-eab308?style=flat-square) ![Cross-Modal](https://img.shields.io/badge/Cross--Modal-db2777?style=flat-square) |
+| [![arXiv](https://img.shields.io/badge/arXiv-2026/01-B31B1B?style=flat-square)](https://arxiv.org/abs/2601.22069)<br>[VTC-R1: Vision-Text Compression for Efficient Long-Context Reasoning](https://arxiv.org/abs/2601.22069)<br><sub>Wang, Jing, Liu et al.</sub> | 2026/01 | [arXiv](https://arxiv.org/abs/2601.22069) | ![Thought](https://img.shields.io/badge/Thought-c2410c?style=flat-square) | ![Transformation](https://img.shields.io/badge/Transformation-eab308?style=flat-square) ![Cross-Modal](https://img.shields.io/badge/Cross--Modal-db2777?style=flat-square) |
+| [![arXiv](https://img.shields.io/badge/arXiv-2026/01-B31B1B?style=flat-square)](https://arxiv.org/abs/2601.14750)<br>[Render-of-Thought: Rendering Textual Chain-of-Thought as Images for Visual Latent Reasoning](https://arxiv.org/abs/2601.14750)<br><sub>Wang, Li, Li et al.</sub> | 2026/01 | [arXiv](https://arxiv.org/abs/2601.14750) | ![Thought](https://img.shields.io/badge/Thought-c2410c?style=flat-square) | ![Transformation](https://img.shields.io/badge/Transformation-eab308?style=flat-square) ![Cross-Modal](https://img.shields.io/badge/Cross--Modal-db2777?style=flat-square) |
+| [![arXiv](https://img.shields.io/badge/arXiv-2026/02-B31B1B?style=flat-square)](https://arxiv.org/abs/2602.13738)<br>[OneLatent: Single-Token Compression for Visual Latent Reasoning](https://arxiv.org/abs/2602.13738)<br><sub>Lv, Sun, Wang et al.</sub> | 2026/02 | [arXiv](https://arxiv.org/abs/2602.13738) | ![Thought](https://img.shields.io/badge/Thought-c2410c?style=flat-square) | ![Transformation](https://img.shields.io/badge/Transformation-eab308?style=flat-square) ![Cross-Modal](https://img.shields.io/badge/Cross--Modal-db2777?style=flat-square) |
+| [![ACL](https://img.shields.io/badge/ACL-2025/07-4A90D9?style=flat-square)]()<br>[CoT-Valve: Length-Compressible Chain-of-Thought Tuning](https://aclanthology.org/2025.acl-long.300/)<br><sub>Ma, Wan, Yu et al.</sub> | 2025/07 | [Paper](https://aclanthology.org/2025.acl-long.300/) | ![Thought](https://img.shields.io/badge/Thought-c2410c?style=flat-square) | ![Transformation](https://img.shields.io/badge/Transformation-eab308?style=flat-square) |
+| [![arXiv](https://img.shields.io/badge/arXiv-2025/06-B31B1B?style=flat-square)](https://arxiv.org/abs/2506.02678)<br>[TL;DR: Too Long, Do Re-weighting for Efficient LLM Reasoning Compression](https://arxiv.org/abs/2506.02678)<br><sub>Li, Liang, Tang et al.</sub> | 2025/06 | [arXiv](https://arxiv.org/abs/2506.02678) | ![Thought](https://img.shields.io/badge/Thought-c2410c?style=flat-square) | ![Transformation](https://img.shields.io/badge/Transformation-eab308?style=flat-square) |
+| [![arXiv](https://img.shields.io/badge/arXiv-2025/05-B31B1B?style=flat-square)](https://arxiv.org/abs/2505.05315)<br>[Scalable Chain of Thoughts via Elastic Reasoning](https://arxiv.org/abs/2505.05315)<br><sub>Xu, Dong, Wang et al.</sub> | 2025/05 | [arXiv](https://arxiv.org/abs/2505.05315) | ![Thought](https://img.shields.io/badge/Thought-c2410c?style=flat-square) | ![Transformation](https://img.shields.io/badge/Transformation-eab308?style=flat-square) |
+| [![arXiv](https://img.shields.io/badge/arXiv-2025/02-B31B1B?style=flat-square)](https://arxiv.org/abs/2502.18600)<br>[Chain of Draft: Thinking Faster by Writing Less](https://arxiv.org/abs/2502.18600)<br><sub>Xu, Xie, Zhao et al.</sub> | 2025/02 | [arXiv](https://arxiv.org/abs/2502.18600) | ![Thought](https://img.shields.io/badge/Thought-c2410c?style=flat-square) | ![Transformation](https://img.shields.io/badge/Transformation-eab308?style=flat-square) |
+| [![AAAI](https://img.shields.io/badge/AAAI-2025-4A90D9?style=flat-square)]()<br>[C3oT: Generating Shorter Chain-of-Thought Without Compromising Effectiveness](https://arxiv.org/abs/2412.11664)<br><sub>Kang, Sun, Chen et al.</sub> | 2025 | [arXiv](https://arxiv.org/abs/2412.11664) | ![Thought](https://img.shields.io/badge/Thought-c2410c?style=flat-square) | ![Transformation](https://img.shields.io/badge/Transformation-eab308?style=flat-square) |
+| [![NeurIPS](https://img.shields.io/badge/NeurIPS-2024-4A90D9?style=flat-square)]()<br>[Can Language Models Learn to Skip Steps?](https://arxiv.org/abs/2411.01855)<br><sub>Liu, Guo, Hu et al.</sub> | 2024/11 | [arXiv](https://arxiv.org/abs/2411.01855) | ![Thought](https://img.shields.io/badge/Thought-c2410c?style=flat-square) | ![Transformation](https://img.shields.io/badge/Transformation-eab308?style=flat-square) |
+
+#### ![](https://img.shields.io/badge/Selection-ef4444?style=flat-square) Thought Selection
+
+| **Paper**&nbsp;&nbsp;&nbsp;&nbsp;&nbsp;&nbsp;&nbsp;&nbsp;&nbsp;&nbsp;&nbsp;&nbsp;&nbsp;&nbsp;&nbsp;&nbsp;&nbsp;&nbsp;&nbsp;&nbsp;&nbsp;&nbsp;&nbsp;&nbsp;&nbsp;&nbsp;&nbsp;&nbsp;&nbsp;&nbsp; | **Date** | **Links**&nbsp;&nbsp;&nbsp;&nbsp;&nbsp;&nbsp;&nbsp;&nbsp;&nbsp;&nbsp;&nbsp;&nbsp; | **Context** | **Method** |
+| --- | :---: | --- | :---: | :---: |
+| [![ICASSP](https://img.shields.io/badge/ICASSP-2026-4A90D9?style=flat-square)]()<br>[Long Chain-of-Thought Compression via Fine-Grained Group Policy Optimization](https://arxiv.org/abs/2602.10048)<br><sub>Han, Afifi, Marot et al.</sub> | 2026/02 | [arXiv](https://arxiv.org/abs/2602.10048) | ![Thought](https://img.shields.io/badge/Thought-c2410c?style=flat-square) | ![Selection](https://img.shields.io/badge/Selection-ef4444?style=flat-square) |
+| [![ICLR](https://img.shields.io/badge/ICLR-2026-4A90D9?style=flat-square)]()<br>[Making Slow Thinking Faster: Compressing LLM Chain-of-Thought via Step Entropy](https://openreview.net/forum?id=cGLqQfS5wH)<br><sub>Li, Zhong, Zheng et al.</sub> | 2026 | [OpenReview](https://openreview.net/forum?id=cGLqQfS5wH) | ![Thought](https://img.shields.io/badge/Thought-c2410c?style=flat-square) | ![Selection](https://img.shields.io/badge/Selection-ef4444?style=flat-square) |
+| [![ICLR](https://img.shields.io/badge/ICLR-2026-4A90D9?style=flat-square)]()<br>[TrimR: Verifier-based Training-Free Thinking Compression for Efficient Test-Time Scaling](https://arxiv.org/abs/2505.17155)<br><sub>Lin, Li, Yang et al.</sub> | 2026 | [arXiv](https://arxiv.org/abs/2505.17155) | ![Thought](https://img.shields.io/badge/Thought-c2410c?style=flat-square) | ![Selection](https://img.shields.io/badge/Selection-ef4444?style=flat-square) |
+| [![arXiv](https://img.shields.io/badge/arXiv-2026/01-B31B1B?style=flat-square)](https://arxiv.org/abs/2601.04973)<br>[ConMax: Confidence-Maximizing Compression for Efficient Chain-of-Thought Reasoning](https://arxiv.org/abs/2601.04973)<br><sub>Hu, Qiu, Xu et al.</sub> | 2026/01 | [arXiv](https://arxiv.org/abs/2601.04973) | ![Thought](https://img.shields.io/badge/Thought-c2410c?style=flat-square) | ![Selection](https://img.shields.io/badge/Selection-ef4444?style=flat-square) |
+| [![EMNLP](https://img.shields.io/badge/EMNLP-2025/11-4A90D9?style=flat-square)]()<br>[TokenSkip: Controllable Chain-of-Thought Compression in LLMs](https://aclanthology.org/2025.emnlp-main.165/)<br><sub>Xia, Leong, Wang et al.</sub> | 2025/11 | [Paper](https://aclanthology.org/2025.emnlp-main.165/) | ![Thought](https://img.shields.io/badge/Thought-c2410c?style=flat-square) | ![Selection](https://img.shields.io/badge/Selection-ef4444?style=flat-square) |
+| [![NeurIPS](https://img.shields.io/badge/NeurIPS-2025-4A90D9?style=flat-square)]()<br>[A*-Thought: Efficient Reasoning via Bidirectional Compression for Low-Resource Settings](https://arxiv.org/abs/2505.24550)<br><sub>Xu, Wang, Han et al.</sub> | 2025/05 | [arXiv](https://arxiv.org/abs/2505.24550) | ![Thought](https://img.shields.io/badge/Thought-c2410c?style=flat-square) | ![Selection](https://img.shields.io/badge/Selection-ef4444?style=flat-square) |
+| [![arXiv](https://img.shields.io/badge/arXiv-2025/05-B31B1B?style=flat-square)](https://arxiv.org/abs/2505.16838)<br>[R1-Compress: Long Chain-of-Thought Compression via Chunk Compression and Search](https://arxiv.org/abs/2505.16838)<br><sub>Wang, Shen, Yao et al.</sub> | 2025/05 | [arXiv](https://arxiv.org/abs/2505.16838) | ![Thought](https://img.shields.io/badge/Thought-c2410c?style=flat-square) | ![Selection](https://img.shields.io/badge/Selection-ef4444?style=flat-square) |
+
+#### ![](https://img.shields.io/badge/Re--encoding-7c3aed?style=flat-square) Thought Re-encoding
+
+| **Paper**&nbsp;&nbsp;&nbsp;&nbsp;&nbsp;&nbsp;&nbsp;&nbsp;&nbsp;&nbsp;&nbsp;&nbsp;&nbsp;&nbsp;&nbsp;&nbsp;&nbsp;&nbsp;&nbsp;&nbsp;&nbsp;&nbsp;&nbsp;&nbsp;&nbsp;&nbsp;&nbsp;&nbsp;&nbsp;&nbsp; | **Date** | **Links**&nbsp;&nbsp;&nbsp;&nbsp;&nbsp;&nbsp;&nbsp;&nbsp;&nbsp;&nbsp;&nbsp;&nbsp; | **Context** | **Method** |
+| --- | :---: | --- | :---: | :---: |
+| [![arXiv](https://img.shields.io/badge/arXiv-2026/04-B31B1B?style=flat-square)](https://arxiv.org/abs/2604.22709)<br>[Thinking Without Words: Efficient Latent Reasoning with Abstract Chain-of-Thought](https://arxiv.org/abs/2604.22709)<br><sub>Ramji, Naseem, Fernandez Astudillo</sub> | 2026/04 | [arXiv](https://arxiv.org/abs/2604.22709) | ![Thought](https://img.shields.io/badge/Thought-c2410c?style=flat-square) | ![Re-encoding](https://img.shields.io/badge/Re--encoding-7c3aed?style=flat-square) |
+| [![NeurIPS](https://img.shields.io/badge/NeurIPS-2025-4A90D9?style=flat-square)]()<br>[SemCoT: Accelerating Chain-of-Thought Reasoning through Semantically-Aligned Implicit Tokens](https://arxiv.org/abs/2510.24940)<br><sub>He, Zheng, Zhu et al.</sub> | 2025/10 | [arXiv](https://arxiv.org/abs/2510.24940) | ![Thought](https://img.shields.io/badge/Thought-c2410c?style=flat-square) | ![Re-encoding](https://img.shields.io/badge/Re--encoding-7c3aed?style=flat-square) |
+| [![EMNLP](https://img.shields.io/badge/EMNLP-2025/11-4A90D9?style=flat-square)]()<br>[LightThinker: Thinking Step-by-Step Compression](https://aclanthology.org/2025.emnlp-main.673/)<br><sub>Zhang, Zhu, Sun et al.</sub> | 2025/11 | [Paper](https://aclanthology.org/2025.emnlp-main.673/) | ![Thought](https://img.shields.io/badge/Thought-c2410c?style=flat-square) | ![Re-encoding](https://img.shields.io/badge/Re--encoding-7c3aed?style=flat-square) |
+| [![EMNLP](https://img.shields.io/badge/EMNLP-2025/11-4A90D9?style=flat-square)]()<br>[CODI: Compressing Chain-of-Thought into Continuous Space via Self-Distillation](https://aclanthology.org/2025.emnlp-main.36/)<br><sub>Shen, Yan, Zhang et al.</sub> | 2025/11 | [Paper](https://aclanthology.org/2025.emnlp-main.36/) | ![Thought](https://img.shields.io/badge/Thought-c2410c?style=flat-square) | ![Re-encoding](https://img.shields.io/badge/Re--encoding-7c3aed?style=flat-square) |
+| [![ACL](https://img.shields.io/badge/ACL-2025/07-4A90D9?style=flat-square)]()<br>[SoftCoT: Soft Chain-of-Thought for Efficient Reasoning with LLMs](https://aclanthology.org/2025.acl-long.1137/)<br><sub>Xu, Guo, Zeng et al.</sub> | 2025/07 | [Paper](https://aclanthology.org/2025.acl-long.1137/) | ![Thought](https://img.shields.io/badge/Thought-c2410c?style=flat-square) | ![Re-encoding](https://img.shields.io/badge/Re--encoding-7c3aed?style=flat-square) |
+| [![COLM](https://img.shields.io/badge/COLM-2025-4A90D9?style=flat-square)]()<br>[Training Large Language Models to Reason in a Continuous Latent Space](https://openreview.net/forum?id=Itxz7S4Ip3)<br><sub>Hao, Sukhbaatar, Su et al.</sub> | 2025 | [OpenReview](https://openreview.net/forum?id=Itxz7S4Ip3) | ![Thought](https://img.shields.io/badge/Thought-c2410c?style=flat-square) | ![Re-encoding](https://img.shields.io/badge/Re--encoding-7c3aed?style=flat-square) |
 
 ---
 
@@ -539,16 +608,16 @@ If injected without compression, these contexts increase inference cost and may 
 If you find our paper or this repository helpful, please consider citing:
 
 ```bibtex
-@article{zhang2026tokencompressionagents,
-  title   = {A Survey of Token Compression in the Era of AI Agents: From Perception to Semantics},
-  author  = {Zhang, Fengxi, Cheng, Zhengxue, Song, Li},
+@article{zhang2026tokencompressionlifecycle,
+  title   = {Token Compression in the AI Agent Lifecycle: A Comprehensive Survey from Perceptual Inputs to Semantic Contexts},
+  author  = {Zhang, Fengxi and Cheng, Zhengxue and Lu, Guo and Song, Li and Li, Zhu and Chen, Zhiyong and Tao, Meixia and Zhang, Wenjun},
   year    = {2026},
 }
 ```
 
 ## ⭐ Star History
 
-[![Star History Chart](https://api.star-history.com/svg?repos=xcjinggai/Awesome_Token_Compression_Papers&type=Date)](https://star-history.com/#xcjinggai/Awesome_Token_Compression_Papers&Date)
+[![Star History Chart](https://api.star-history.com/svg?repos=XCJinggai/Awesome_Token_Compression_in_AI_Agents_Era&type=Date)](https://star-history.com/#XCJinggai/Awesome_Token_Compression_in_AI_Agents_Era&Date)
 
 ---
 